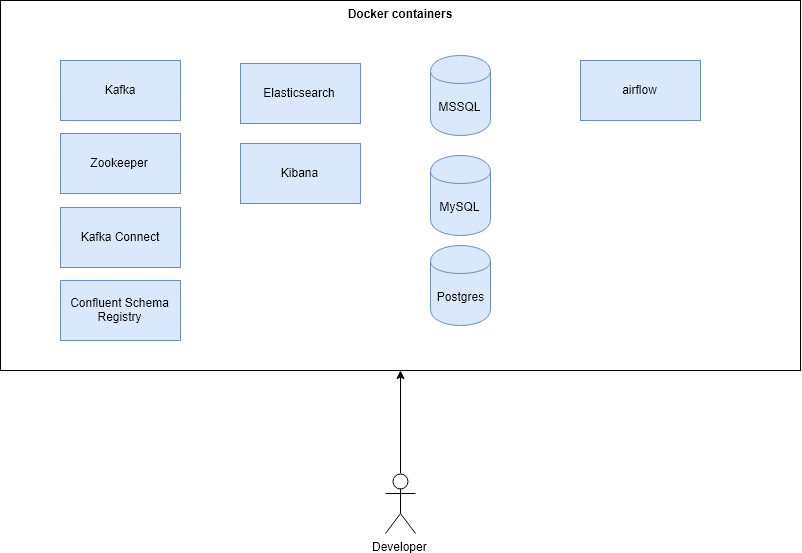
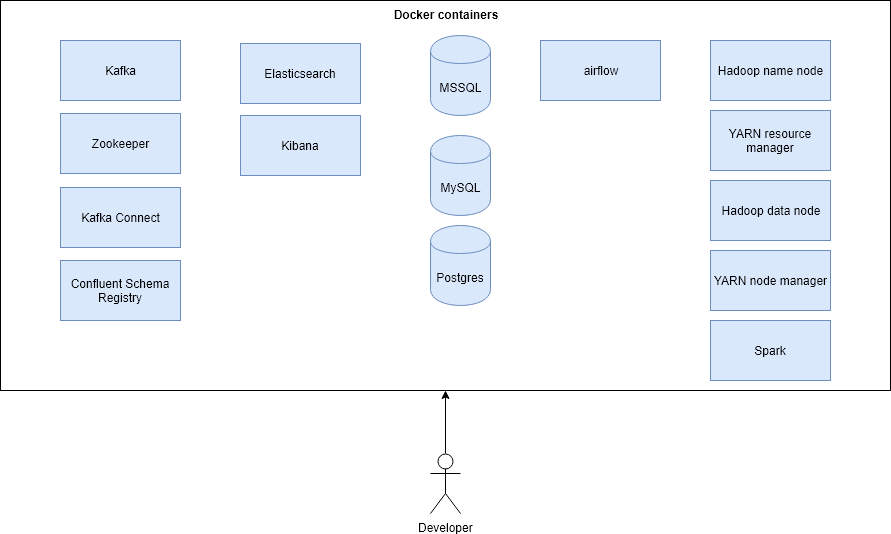
Adding Hadoop cluster - resolves #3 Adding Spark 2 - resolves #4

diff --git a/README.md b/README.md
@@ -1,5 +1,5 @@
 # big-data-dev-environment-docker
-Big Data Development environment based on Docker.
+Big Data development environment based on Docker.
 
 ![](images/environment_diagram.png)
 

diff --git a/spark-jobs/README.md b/spark-jobs/README.md
@@ -1,0 +1,1 @@
+Put your Spark applications jars in this folder, they will be available at spark container in directory `/opt/transformations`.
